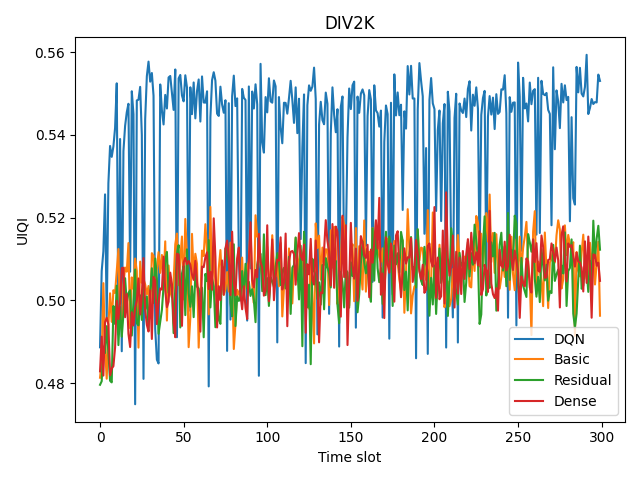
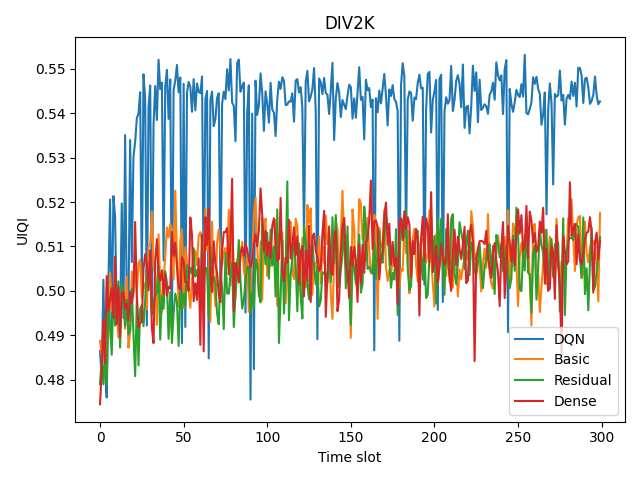
优化了作图 HRL的结果有点怪怪

diff --git a/v2_HRL/train.py b/v2_HRL/train.py
@@ -22,7 +22,7 @@ import pdb
 # RL
 from agent.RL_env import compute_reward, formulate_state
 from agent.Fixed_agent import FixedAgent
-from hrl import HRL
+from agent.hrl import HRL
 from RS_analysis import rs_analysis
 
 ImageFile.LOAD_TRUNCATED_IMAGES = True
@@ -84,7 +84,7 @@ def uiqi(reference_image, distorted_image):
 
 def main():
     data_dir = 'div2k'
-    epochs = 300
+    epochs = 50
     max_data_depth = 8
     hidden_size = 32
     device = torch.device('cuda' if torch.cuda.is_available() else 'cpu')
@@ -219,9 +219,16 @@ def main():
                 consumption_weight = {'encode_mode': 1, 'depth': 0.1}
 
                 if alg in ['DQN', ]: 
-                    # 更新状态 选择动作
                     state = next_state
-                    h0_action,h1_action = agent.choose_action(state)
+                    if ep == 0 :
+                        # 更新状态 选择动作
+                        # 因为下层的下个状态需要上层的动作 所以动作选择在本回合结束后
+                        # 这里是最开始先选择一次动作
+                        h0_action,h1_action = agent.choose_action(state)
+                    else:
+                        print("h0_next_action",h0_next_action)
+                        print("h1_next_action",h1_next_action)
+                        h0_action,h1_action = h0_next_action,h1_next_action  
                     #模型选择和嵌入深度
                     encode_mode = h0_action
                     data_depth = h1_action +1 #深度范围从1开始
@@ -332,7 +339,7 @@ def main():
                     payload = torch.zeros((N, data_depth, H, W),
                                         device=device).random_(0, 2)
                     generated = encoder.forward(cover, payload)
-                    vutils.save_image(generated, "images.png")
+                    vutils.save_image(generated, "images.png") 
 
                     decoded = decoder.forward(generated)
                     # print(decoded)
@@ -375,13 +382,18 @@ def main():
                     # 计算奖励
                     h0_rewards.append(h0_reward)
                     h1_rewards.append(h1_reward) 
+                    #因为下层状态需要上层动作 所以在这里先选出下一次动作
+                    h0_next_action,h1_next_action = agent.choose_action(next_state)
+                    print("h0_next_action_1",h0_next_action)
+                    print("h1_next_action_1",h1_next_action)
                     # 存储经验
-                    agent.store_transition(state, h0_action, h1_action, h0_reward, h1_reward, next_state)
+                    agent.store_transition(state, h0_action, h1_action, h0_reward, h1_reward, next_state,h0_next_action)
                 else:
                     rewards.append(reward)
                     agent.store_transition(state, action, reward, next_state)
                 # 学习
                 agent.learn()
+    
                 # now = datetime.datetime.now()
                 # 保存模型状态
                 name = "EN_DE_%+.3f.dat" % (cover_score.item())
@@ -422,6 +434,7 @@ def main():
         h0_reward_avg = np.mean(h0_reward_avg, axis=0).tolist()
         h1_reward_avg = np.mean(h1_reward_avg, axis=0).tolist()
         reward_avg = np.mean(reward_avg, axis=0).tolist()
+        mse_avg = np.mean(mse_avg, axis=0).tolist() 
         psnr_avg = np.mean(psnr_avg, axis=0).tolist()
         ssim_avg = np.mean(ssim_avg, axis=0).tolist()
         uiqi_avg = np.mean(uiqi_avg, axis=0).tolist()
@@ -454,50 +467,34 @@ def main():
                 plt.tight_layout()
                 plt.savefig(os.path.join('.', 'results', data_dir , alg + '_' + y_label + '.png'))
                 plt.close()
-
         h0_reward_alg[alg] = h0_reward_avg
         h1_reward_alg[alg] = h1_reward_avg
         reward_alg[alg] = reward_avg
+        mse_alg[alg] = mse_avg
         psnr_alg[alg] = psnr_avg
         ssim_alg[alg] = ssim_avg
         consumption_alg[alg] = consumption_avg
         uiqi_alg[alg] = uiqi_avg
         rs_alg[alg] = rs_avg
-        mse_alg[alg] = mse_avg
-    if alg == 'DQN':
-        for data, y_label in zip([h0_reward_alg,h0_reward_alg,h1_reward_alg ,psnr_alg, ssim_alg, consumption_alg, uiqi_alg, rs_alg, mse_alg], ['H0_Reward','H0_Reward','H1_Reward', 'PSNR', 'SSIM', 'Consumption', 'UIQI', 'RS test', 'MSE loss']):
-            # 上面多设置一次h0_reward_alg是为了能和其它算法一起画图
+        for data, y_label in zip([h0_reward_alg,h1_reward_alg, psnr_alg, ssim_alg, consumption_alg, uiqi_alg, rs_alg, mse_alg], ['H0_Reward','H1_Reward' ,'PSNR', 'SSIM', 'Consumption', 'UIQI', 'RS test', 'MSE loss']):
             plt.figure()
             for alg in algs:
-                plt.plot(data[alg], label=alg.split('-')[0] if alg != 'DQN' else alg)
-            plt.xlabel('Time slot')
-            # 为了使DQN和
-            plt.ylabel(y_label)
-            plt.legend()
-            plt.title(data_dir.upper())
-            plt.tight_layout()
-            # if not os.path.exists(os.path.join('.', 'results/', data_dir)):
-            #     os.mkdir(os.path.join('.', 'results/', data_dir))
-            plt.savefig(os.path.join('.', 'results', data_dir,  'All_' + y_label + '.png'))
-            plt.close()
-    else:
-        for data, y_label in zip([reward_alg, psnr_alg, ssim_alg, consumption_alg, uiqi_alg, rs_alg, mse_alg], ['Reward', 'PSNR', 'SSIM', 'Consumption', 'UIQI', 'RS test', 'MSE loss']):
-            plt.figure()
-            for alg in algs:
+                if alg !='DQN':
+                    if y_label=="H0_Reward" or y_label=="H1_Reward":
+                        data[alg]=reward_alg[alg]
                 plt.plot(data[alg], label=alg.split('-')[0] if alg != 'DQN' else alg)
             plt.xlabel('Time slot')
             plt.ylabel(y_label)
             plt.legend()
             plt.title(data_dir.upper())
             plt.tight_layout()
-            # if not os.path.exists(os.path.join('.', 'results/', data_dir)):
-            #     os.mkdir(os.path.join('.', 'results/', data_dir))
-            plt.savefig(os.path.join('.', 'results', data_dir,  'All_' + y_label + '.png'))
+            print("other",y_label)
+            plt.savefig(os.path.join('.', 'results', data_dir, 'All_' + y_label + '.png'))
             plt.close()
 
     # save mat
     import scipy.io as sio
-    sio.savemat('results.mat', {'reward': reward_alg, 'psnr': psnr_alg, 'ssim': ssim_alg, 'consumption': consumption_alg, 'uiqi': uiqi_alg, 'rs': rs_alg})
+    sio.savemat('results.mat', {'reward': reward_alg, 'psnr': psnr_alg, 'ssim': ssim_alg, 'consumption': consumption_alg, 'uiqi': uiqi_alg, 'rs': rs_alg, 'mse': mse_alg})
 
 
 if __name__ == '__main__':

diff --git a/v1_2DQN/train.py b/v1_2DQN/train.py
@@ -441,6 +441,7 @@ def main():
         h0_reward_avg = np.mean(h0_reward_avg, axis=0).tolist()
         h1_reward_avg = np.mean(h1_reward_avg, axis=0).tolist()
         reward_avg = np.mean(reward_avg, axis=0).tolist()
+        mse_avg = np.mean(mse_avg, axis=0).tolist() 
         psnr_avg = np.mean(psnr_avg, axis=0).tolist()
         ssim_avg = np.mean(ssim_avg, axis=0).tolist()
         uiqi_avg = np.mean(uiqi_avg, axis=0).tolist()
@@ -484,8 +485,7 @@ def main():
         rs_alg[alg] = rs_avg
         mse_alg[alg] = mse_avg
     if alg == 'DQN':
-        for data, y_label in zip([h0_reward_alg,h0_reward_alg,h1_reward_alg ,psnr_alg, ssim_alg, consumption_alg, uiqi_alg, rs_alg, mse_alg], ['H0_Reward','H0_Reward','H1_Reward', 'PSNR', 'SSIM', 'Consumption', 'UIQI', 'RS test', 'MSE loss']):
-            # 上面多设置一次h0_reward_alg是为了能和其它算法一起画图
+        for data, y_label in zip([h0_reward_alg,h1_reward_alg ,psnr_alg, ssim_alg, consumption_alg, uiqi_alg, rs_alg, mse_alg], ['H0_Reward','H1_Reward', 'PSNR', 'SSIM', 'Consumption', 'UIQI', 'RS test', 'MSE loss']):
             plt.figure()
             for alg in algs:
                 plt.plot(data[alg], label=alg.split('-')[0] if alg != 'DQN' else alg)
@@ -499,8 +499,9 @@ def main():
             plt.savefig(os.path.join('.', 'results', data_dir,  'All_' + y_label + '.png'))
             plt.close()
     else:
-        for data, y_label in zip([reward_alg, psnr_alg, ssim_alg, consumption_alg, uiqi_alg, rs_alg, mse_alg], ['Reward', 'PSNR', 'SSIM', 'Consumption', 'UIQI', 'RS test', 'MSE loss']):
-            plt.figure()
+        for data, y_label in zip([reward_alg,reward_alg, psnr_alg, ssim_alg, consumption_alg, uiqi_alg, rs_alg, mse_alg], ['H0_Reward', 'H1_Reward','PSNR', 'SSIM', 'Consumption', 'UIQI', 'RS test', 'MSE loss']):
+            # 上面多设置一次reward_alg是为了能和DQN两层一起画图
+            plt.figure() 
             for alg in algs:
                 plt.plot(data[alg], label=alg.split('-')[0] if alg != 'DQN' else alg)
             plt.xlabel('Time slot')

diff --git a/v2_HRL/agent/hrl.py b/v2_HRL/agent/hrl.py
@@ -14,7 +14,7 @@ class HRL(object):
     #动作选择
     def choose_action(self, state):  
         h0_action,_= self.h0_agent.choose_action(state)
-        # 下层根据上层经验进行动作选择
+        # 下层根据上层动作进行动作选择
         cho_state_0action = state + [h0_action]
         h1_action ,_= self.h1_agent.choose_action(cho_state_0action)
         return h0_action,h1_action
